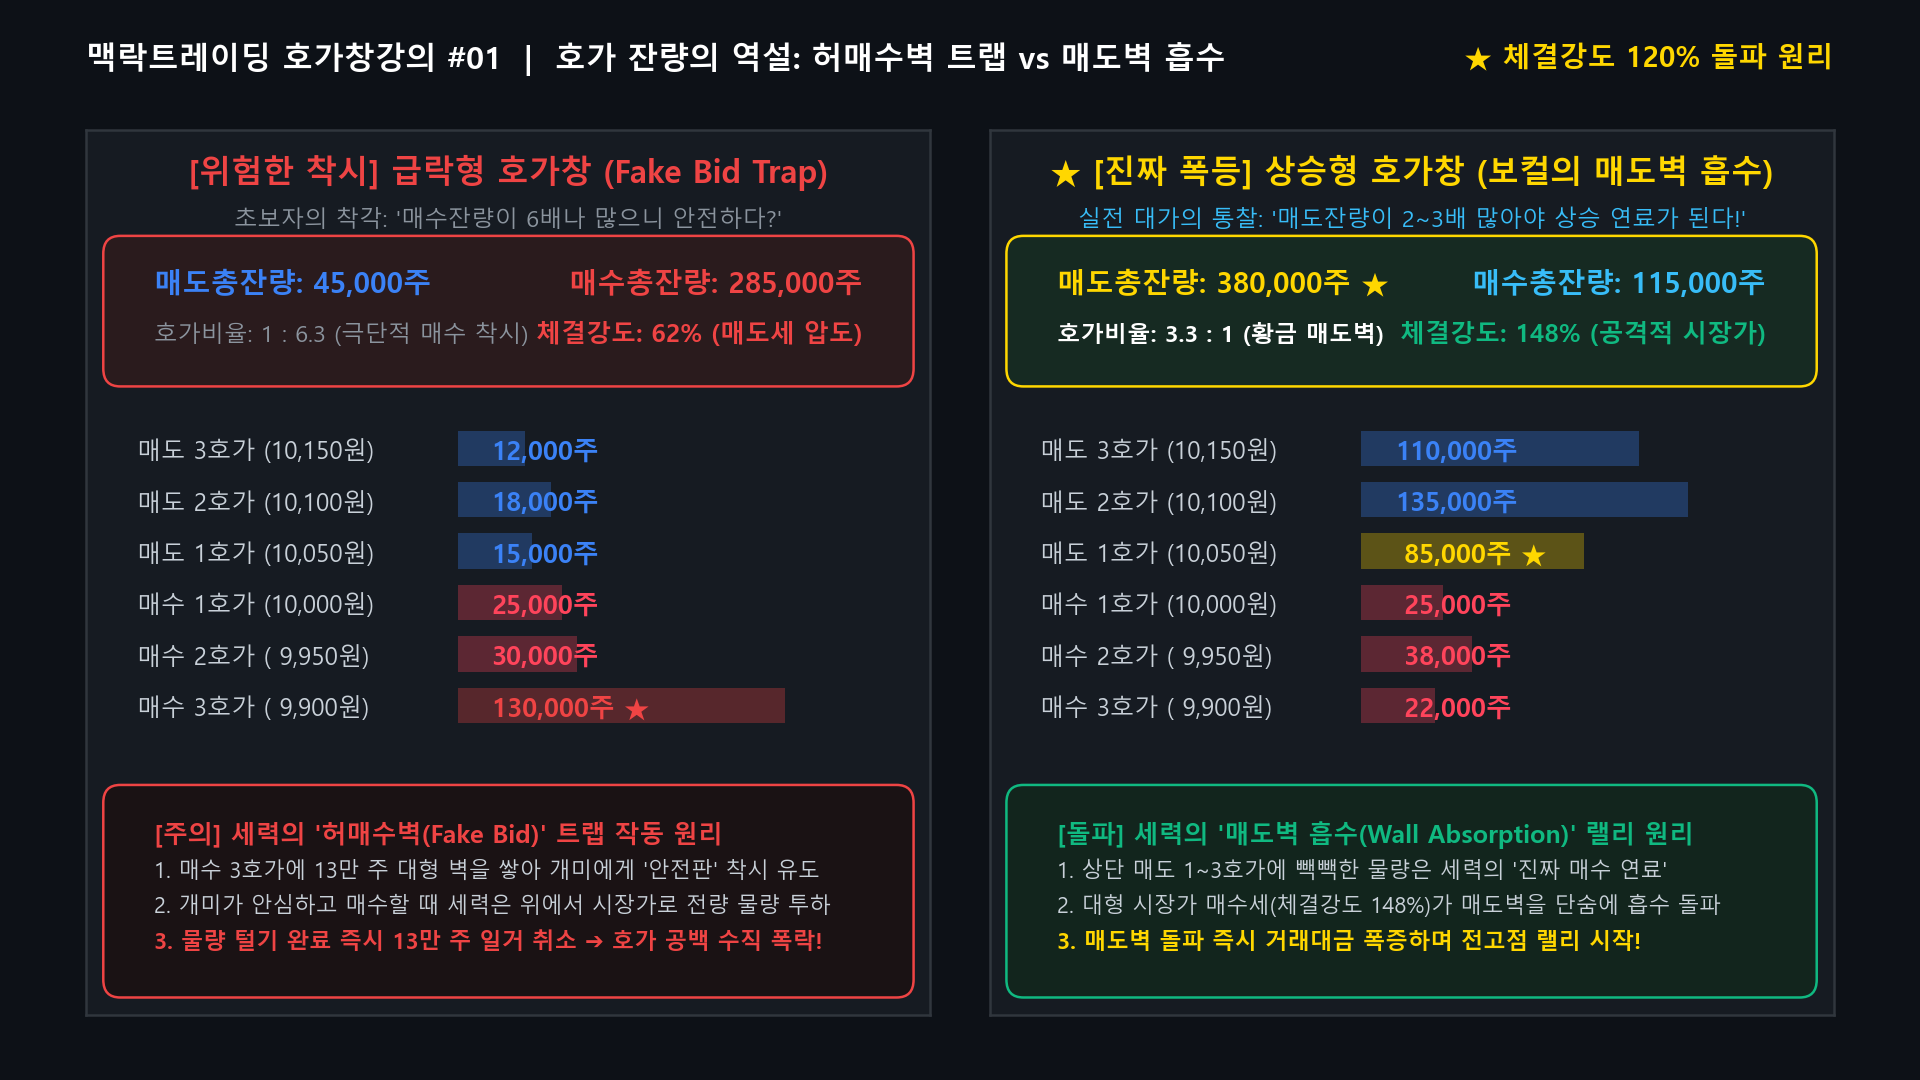
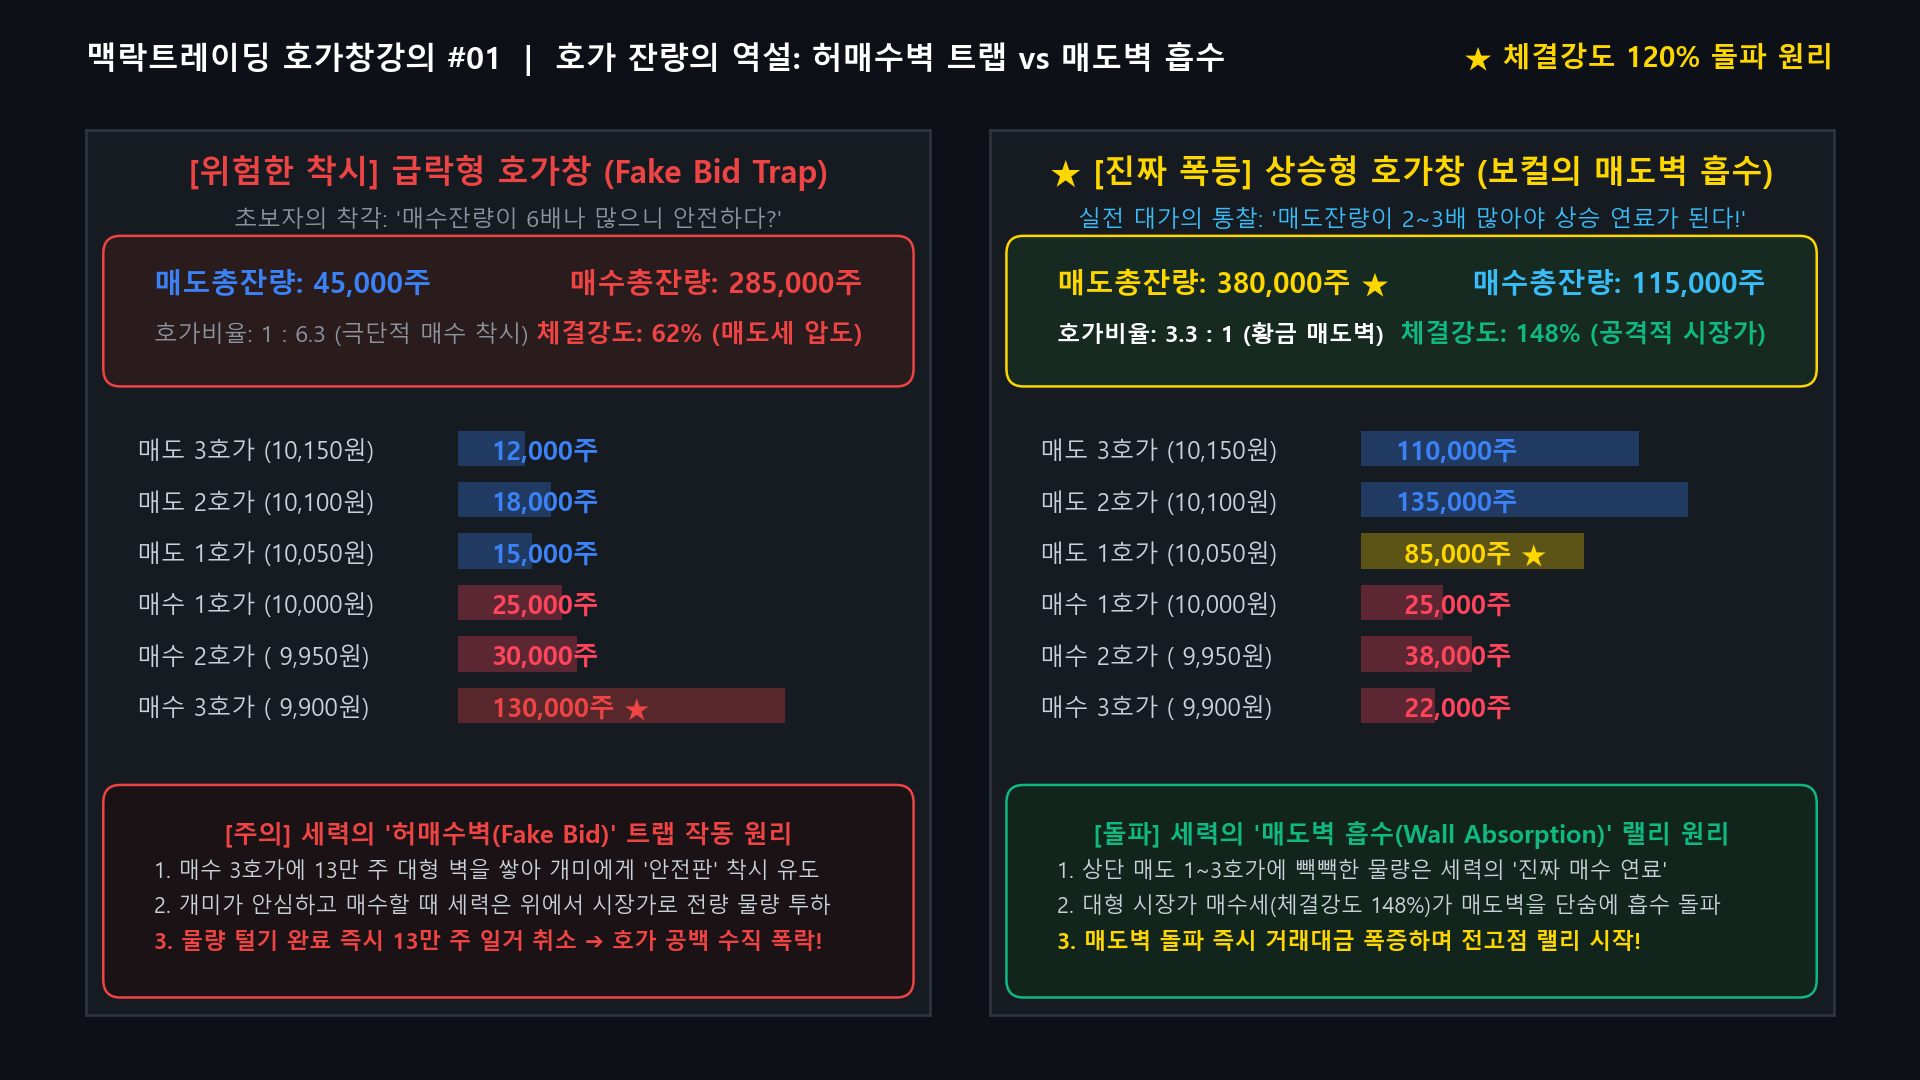
style(blog): simplify badges with single digits and center-align box text for balanced spacing

Changed region(s): [[0.5312, 0.7639, 0.9062, 0.7944], [0.0625, 0.7639, 0.4062, 0.7944]]

diff --git a/scripts/generate_chart_infographics.py b/scripts/generate_chart_infographics.py
@@ -240,10 +240,11 @@ class RedesignedChartInfographics:
 
         # -------------------------------------------------------------------------
         # ★ 차트 내부: ax.annotate 기반 완벽한 정원(Circle) 뱃지 & 화살표 지시선 장착
+        # (원 안에 또 원번호를 그리지 않고 깔끔한 아라비아 숫자 1, 2, 3, 4 단일 렌더링)
         # -------------------------------------------------------------------------
-        # ① 1차 급등 돌파 파동 (캔들 8 고점 지시)
+        # 1 1차 급등 돌파 파동 (캔들 8 고점 지시)
         ax_main.annotate(
-            "①",
+            "1",
             xy=(8, 11250), xytext=(8, 11620),
             ha="center", va="center", fontsize=16, fontweight="bold", color="#FFFFFF",
             bbox=dict(boxstyle="circle,pad=0.35", facecolor=DARK["bull_red"], edgecolor="#FFFFFF", lw=1.5),
@@ -252,9 +253,9 @@ class RedesignedChartInfographics:
         )
         ax_main.text(8, 11770, "1차 급등 돌파", color=DARK["bull_red"], fontsize=13, fontweight="bold", ha="center", zorder=10)
 
-        # ② 10이평 수렴 눌림목 (캔들 12 저점 지시)
+        # 2 10이평 수렴 눌림목 (캔들 12 저점 지시)
         ax_main.annotate(
-            "②",
+            "2",
             xy=(12, 10750), xytext=(12, 11280),
             ha="center", va="center", fontsize=16, fontweight="bold", color="#FFFFFF",
             bbox=dict(boxstyle="circle,pad=0.35", facecolor=DARK["cyan"], edgecolor="#FFFFFF", lw=1.5),
@@ -263,9 +264,9 @@ class RedesignedChartInfographics:
         )
         ax_main.text(12, 11430, "10선 눌림 (거래급감)", color=DARK["cyan"], fontsize=13, fontweight="bold", ha="center", zorder=10)
 
-        # ③ ★ 10이평 지지 양봉 타점 (캔들 15 밑꼬리 지시 - 뱃지와 텍스트 수평 배치로 오버랩 0%)
+        # 3 ★ 10이평 지지 양봉 타점 (캔들 15 밑꼬리 지시 - 뱃지와 텍스트 수평 배치로 오버랩 0%)
         ax_main.annotate(
-            "③",
+            "3",
             xy=(15, 10610), xytext=(13.6, 10220),
             ha="center", va="center", fontsize=16, fontweight="bold", color="#000000",
             bbox=dict(boxstyle="circle,pad=0.35", facecolor=DARK["gold"], edgecolor="#FFFFFF", lw=1.5),
@@ -277,9 +278,9 @@ class RedesignedChartInfographics:
             color=DARK["gold"], fontsize=12.5, fontweight="bold", ha="left", va="center", zorder=10
         )
 
-        # ④ 2차 랠리 & 신고가 돌파 (캔들 19 고점 지시)
+        # 4 2차 랠리 & 신고가 돌파 (캔들 19 고점 지시)
         ax_main.annotate(
-            "④",
+            "4",
             xy=(19, 11520), xytext=(19, 11800),
             ha="center", va="center", fontsize=16, fontweight="bold", color="#FFFFFF",
             bbox=dict(boxstyle="circle,pad=0.35", facecolor=DARK["target_green"], edgecolor="#FFFFFF", lw=1.5),
@@ -375,18 +376,19 @@ class RedesignedChartInfographics:
                 card_y -= 0.030
             card_y -= 0.018
 
-        # 하단 자금관리 박스 (textwrap 자동 줄바꿈으로 완벽한 안전 여백 확보)
+        # 하단 자금관리 박스 (완벽한 중앙 정렬 및 상하 균일 간격 배치)
         rule_box = FancyBboxPatch(
             (0.04, 0.035), 0.92, 0.13, boxstyle="round,pad=0.02",
             facecolor="#2A1B1D", edgecolor=DARK["stop_red"], linewidth=1.5
         )
         ax_panel.add_patch(rule_box)
-        ax_panel.text(0.08, 0.125, "[필독] 맥락트레이딩 절대 생존 수칙", color=DARK["stop_red"], fontsize=13.5, fontweight="bold")
+        # 박스 가로 중앙(x=0.50) 정렬 및 상하 균일 3단 배치
+        ax_panel.text(0.50, 0.128, "[필독] 맥락트레이딩 절대 생존 수칙", color=DARK["stop_red"], fontsize=13.5, fontweight="bold", ha="center", va="center")
         
         rule_text_1 = "1. 원하는 타점(10이평 지지) 미도달 시 종일 매매 쉰다."
         rule_text_2 = "2. 손절선(-1.5%) 터치 시 망설임 없이 기계적 칼손절!"
-        ax_panel.text(0.08, 0.085, rule_text_1, color=DARK["text_secondary"], fontsize=11.5)
-        ax_panel.text(0.08, 0.055, rule_text_2, color=DARK["gold"], fontsize=11.5, fontweight="bold")
+        ax_panel.text(0.50, 0.090, rule_text_1, color=DARK["text_secondary"], fontsize=11.5, ha="center", va="center")
+        ax_panel.text(0.50, 0.056, rule_text_2, color=DARK["gold"], fontsize=11.5, fontweight="bold", ha="center", va="center")
 
         # 시각 무결성 자동 검증 하드 가드
         assert_zero_visual_defects(fig, "10MA_Pullback_Chart")
@@ -490,7 +492,7 @@ class RedesignedChartInfographics:
             facecolor="#1A1214", edgecolor=DARK["stop_red"], linewidth=1.5
         )
         ax_left.add_patch(alert_box_l)
-        ax_left.text(0.08, 0.195, "[주의] 세력의 '허매수벽(Fake Bid)' 트랩 작동 원리", color=DARK["stop_red"], fontsize=15, fontweight="bold")
+        ax_left.text(0.50, 0.195, "[주의] 세력의 '허매수벽(Fake Bid)' 트랩 작동 원리", color=DARK["stop_red"], fontsize=15, fontweight="bold", ha="center")
         ax_left.text(0.08, 0.155, "1. 매수 3호가에 13만 주 대형 벽을 쌓아 개미에게 '안전판' 착시 유도", color=DARK["text_secondary"], fontsize=13)
         ax_left.text(0.08, 0.115, "2. 개미가 안심하고 매수할 때 세력은 위에서 시장가로 전량 물량 투하", color=DARK["text_secondary"], fontsize=13)
         ax_left.text(0.08, 0.075, "3. 물량 털기 완료 즉시 13만 주 일거 취소 ➔ 호가 공백 수직 폭락!", color=DARK["stop_red"], fontsize=13.5, fontweight="bold")
@@ -545,7 +547,7 @@ class RedesignedChartInfographics:
             facecolor="#12251D", edgecolor=DARK["target_green"], linewidth=1.5
         )
         ax_right.add_patch(alert_box_r)
-        ax_right.text(0.08, 0.195, "[돌파] 세력의 '매도벽 흡수(Wall Absorption)' 랠리 원리", color=DARK["target_green"], fontsize=15, fontweight="bold")
+        ax_right.text(0.50, 0.195, "[돌파] 세력의 '매도벽 흡수(Wall Absorption)' 랠리 원리", color=DARK["target_green"], fontsize=15, fontweight="bold", ha="center")
         ax_right.text(0.08, 0.155, "1. 상단 매도 1~3호가에 빽빽한 물량은 세력의 '진짜 매수 연료'", color=DARK["text_secondary"], fontsize=13)
         ax_right.text(0.08, 0.115, "2. 대형 시장가 매수세(체결강도 148%)가 매도벽을 단숨에 흡수 돌파", color=DARK["text_secondary"], fontsize=13)
         ax_right.text(0.08, 0.075, "3. 매도벽 돌파 즉시 거래대금 폭증하며 전고점 랠리 시작!", color=DARK["gold"], fontsize=13.5, fontweight="bold")
